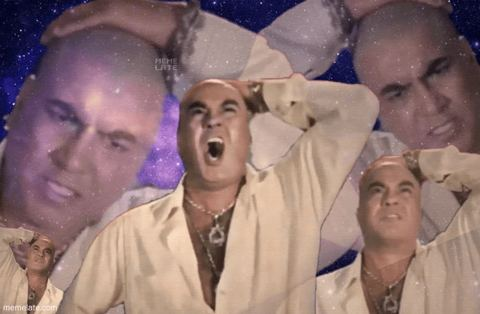
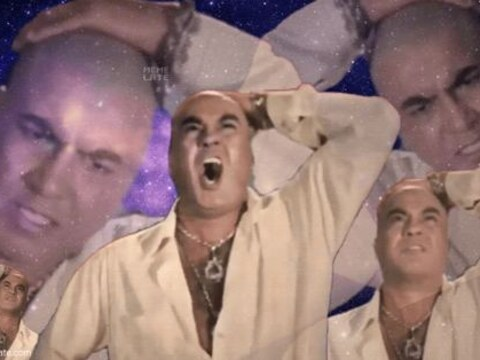
fixed

diff --git a/frontend/src/pages/journey/QuestionStep.jsx b/frontend/src/pages/journey/QuestionStep.jsx
@@ -34,13 +34,9 @@ const Option = ({ o, selected, multi, onToggle, compact, tile, i }) => (
   >
     {tile ? (
       <>
-        <span className="relative block w-full aspect-[4/3] border-b-2 border-[#1E1E24] bg-amber-100 overflow-hidden grid place-items-center">
+        <span className="block w-full aspect-[4/3] border-b-2 border-[#1E1E24] bg-amber-100 overflow-hidden grid place-items-center">
           {o.image
-            ? <>
-                {/* blurred copy fills the letterbox so odd-shaped memes show uncropped without empty bars */}
-                <img src={o.image} alt="" aria-hidden loading="lazy" className="absolute inset-0 w-full h-full object-cover blur-lg scale-125 opacity-70" />
-                <img src={o.image} alt={o.label} loading="lazy" className={`relative w-full h-full object-contain transition-transform duration-300 ${selected ? "scale-105" : ""}`} />
-              </>
+            ? <img src={o.image} alt={o.label} loading="lazy" className={`w-full h-full object-cover transition-transform duration-300 ${selected ? "scale-105" : ""}`} />
             : <span className="text-5xl" aria-hidden>{o.emoji}</span>}
         </span>
         <span className="flex items-center gap-2 px-2.5 py-2 flex-1">
